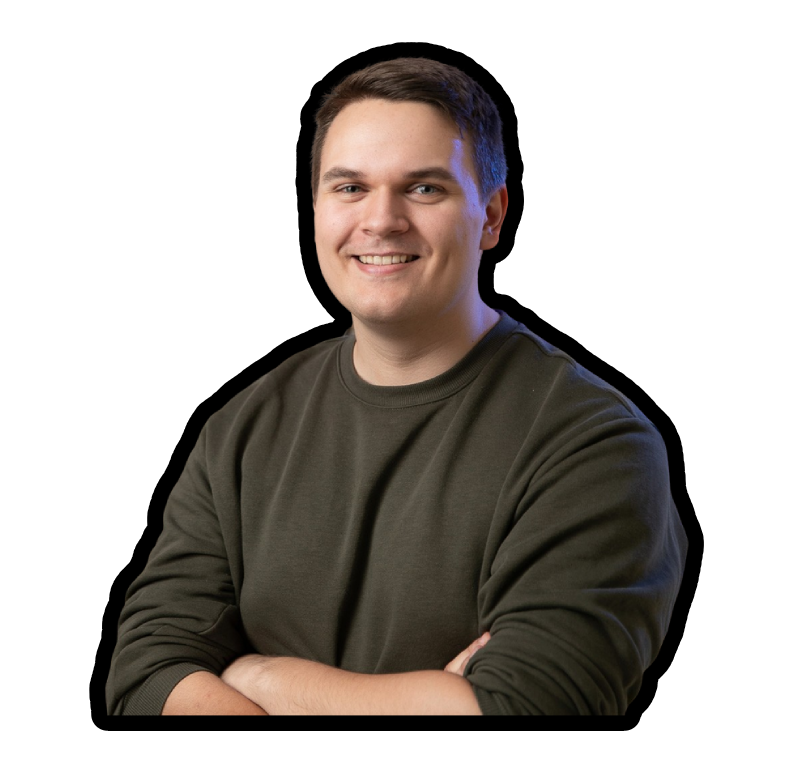
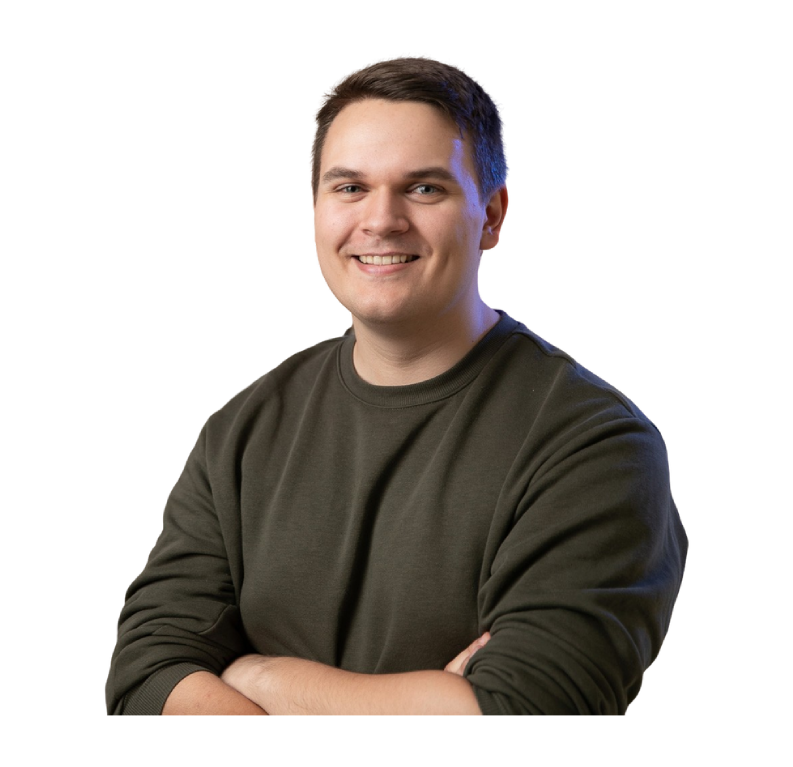
👌 IMPROVE: js->ts, and add dark mode

Changed region(s): [[0.0908, 0.03, 0.9079, 0.9596]]

diff --git a/pages/index.tsx b/pages/index.tsx
@@ -1,0 +1,100 @@
+import { ThemeProvider, useTheme } from "next-themes";
+
+import Head from "next/head";
+import Image from "next/image";
+import styles from "../styles/Home.module.scss";
+import profilePicture from "../images/profile.png";
+import Sparkles from "./sprakles";
+import Features from "../components/Features";
+import ThemeChanger from "../components/ThemeChanger";
+import useDarkMode from "use-dark-mode";
+
+export default function Home() {
+  return (
+    <ThemeProvider>
+      <div className={styles.darkModeToggle}>
+        <ThemeChanger></ThemeChanger>
+      </div>
+
+      <div className={styles.container}>
+        <Head>
+          <title>Sander Breivik | Full-stack developer</title>
+          <meta
+            name="description"
+            content="Sander Breiviks personal full-stack profile"
+          />
+          <link rel="icon" href="/favicon.ico" />
+        </Head>
+
+        <main className={styles.main}>
+          <div className={styles.title}>
+            <Image
+              priority
+              src={profilePicture}
+              alt="Sander Breivik"
+              width={400}
+              height={400}
+              className={styles.profile}
+            />
+            <div className={styles.titleTexts}>
+              <h1>Sander Breivik</h1>
+              <h2>
+                <Features></Features>
+              </h2>
+            </div>
+          </div>
+          <></>
+          <div className={styles.description}>
+            I am a full-stack developer with a passion for creating{" "}
+            <span className={styles.inline}>
+              <Sparkles> beautiful* </Sparkles>
+            </span>{" "}
+            user experiences.
+          </div>
+          <p className={styles.asterisk}>
+            * I know this is not much, but I promise I will add more in the
+            future!
+          </p>
+          <div className={styles.grid}>
+            <a
+              href="
+            https://www.linkedin.com/in/sanderbreivik"
+              className={styles.card}
+            >
+              <h3>LinkedIn</h3>
+              <p>
+                <svg
+                  width="48"
+                  height="48"
+                  viewBox="0 0 24 24"
+                  className={styles.svg}
+                  xmlns="http://www.w3.org/2000/svg"
+                >
+                  <path d="M19 0h-14c-2.761 0-5 2.239-5 5v14c0 2.761 2.239 5 5 5h14c2.762 0 5-2.239 5-5v-14c0-2.761-2.238-5-5-5zm-11 19h-3v-11h3v11zm-1.5-12.268c-.966 0-1.75-.79-1.75-1.764s.784-1.764 1.75-1.764 1.75.79 1.75 1.764-.783 1.764-1.75 1.764zm13.5 12.268h-3v-5.604c0-3.368-4-3.113-4 0v5.604h-3v-11h3v1.765c1.396-2.586 7-2.777 7 2.476v6.759z" />
+                </svg>
+              </p>
+            </a>
+            <a
+              href="
+            https://www.facebook.com/sander.breivik"
+              className={styles.card}
+            >
+              <h3>Facebook</h3>
+              <p>
+                <svg
+                  xmlns="http://www.w3.org/2000/svg"
+                  width="48"
+                  height="48"
+                  viewBox="0 0 24 24"
+                  className={styles.svg}
+                >
+                  <path d="M19 0h-14c-2.761 0-5 2.239-5 5v14c0 2.761 2.239 5 5 5h14c2.762 0 5-2.239 5-5v-14c0-2.761-2.238-5-5-5zm-3 7h-1.924c-.615 0-1.076.252-1.076.889v1.111h3l-.238 3h-2.762v8h-3v-8h-2v-3h2v-1.923c0-2.022 1.064-3.077 3.461-3.077h2.539v3z" />
+                </svg>
+              </p>
+            </a>
+          </div>
+        </main>
+      </div>
+    </ThemeProvider>
+  );
+}

diff --git a/components/styles/ThemeChanger.module.scss b/components/styles/ThemeChanger.module.scss
@@ -1,0 +1,62 @@
+.darkModeToggle {
+  display: flex;
+  margin: 0 auto;
+  & > button {
+    font-size: 1.2em;
+    background: none;
+    border: none;
+    color: #ffe600;
+    cursor: pointer;
+    transition: color 0.3s ease;
+    &:last-child {
+      color: #666;
+    }
+
+    &:focus {
+      outline: none;
+    }
+  }
+}
+
+.toggleControl {
+  position: relative;
+  padding: 0 4px;
+  display: flex;
+  align-items: center;
+}
+
+input[type="checkbox"].dmcheck {
+  width: 40px;
+  height: 10px;
+  background: #555;
+  position: relative;
+  border-radius: 5px;
+  -webkit-appearance: none;
+  -moz-appearance: none;
+  appearance: none;
+  cursor: pointer;
+  vertical-align: 2px;
+  outline: none;
+
+  &:checked + label {
+    left: 30px;
+  }
+
+  &:focus-visible {
+    outline: solid 2px white;
+  }
+
+  & + label {
+    display: inline-block;
+    width: 18px;
+    height: 18px;
+    border-radius: 50%;
+    transition: all 0.3s ease;
+    cursor: pointer;
+    position: absolute;
+    left: 2px;
+    background: #fff;
+    opacity: 0.9;
+    background-color: #f6f6f6;
+  }
+}

diff --git a/components/ThemeChanger.tsx b/components/ThemeChanger.tsx
@@ -1,0 +1,25 @@
+import Toggle from "./Toggle";
+import styles from "./styles/ThemeChanger.module.scss";
+import { useTheme } from "next-themes";
+const ThemeChanger = () => {
+  const { theme, setTheme } = useTheme();
+  const checked = theme === "dark";
+
+  const onChange = () => {
+    setTheme(checked ? "light" : "dark");
+  };
+
+  return (
+    <div className={styles.darkModeToggle}>
+      <button type="button" onClick={() => setTheme("light")}>
+        ☀
+      </button>
+      <Toggle checked={checked} onChange={onChange} />
+      <button type="button" onClick={() => setTheme("dark")}>
+        ☾
+      </button>
+    </div>
+  );
+};
+
+export default ThemeChanger;

diff --git a/styles/Home.module.scss b/styles/Home.module.scss
@@ -32,6 +32,8 @@
     justify-content: center;
     align-items: center;
     flex-grow: 1;
+    filter: drop-shadow(5px 0 0 black) drop-shadow(0 5px 0 black)
+      drop-shadow(-5px 0 0 black) drop-shadow(0 -5px 0 black);
   }
   .titleTexts {
     display: flex;
@@ -156,4 +158,22 @@
 .inline {
   position: relative;
   display: inline-block;
+}
+[data-theme="dark"] {
+  .profile {
+    filter: drop-shadow(5px 0 0 white) drop-shadow(0 5px 0 white)
+      drop-shadow(-5px 0 0 white) drop-shadow(0 -5px 0 white);
+  }
+  .features {
+    color: #fff;
+  }
+  .svg {
+    fill: #fff;
+  }
+}
+
+.darkModeToggle {
+  display: inline;
+  float: right;
+  margin: 1rem;
 }

diff --git a/components/Features.tsx b/components/Features.tsx
@@ -1,6 +1,6 @@
 import React from "react";
 import TextTransition from "react-text-transition";
-
+import styles from "./styles/Features.module.scss";
 const TEXTS = [
   "Full-stack developer",
   "Father",
@@ -21,7 +21,12 @@ const Features = () => {
     return () => clearTimeout(intervalId);
   }, []);
 
-  return <TextTransition text={TEXTS[index % TEXTS.length]} />;
+  return (
+    <TextTransition
+      className={styles.features}
+      text={TEXTS[index % TEXTS.length]}
+    />
+  );
 };
 
 export default Features;

diff --git a/pages/sprakles.tsx b/pages/sprakles.tsx
@@ -90,7 +90,7 @@ const useRandomInterval = (callback, minDelay, maxDelay) => {
 };
 const Sparkles = ({ color = DEFAULT_COLOR, children, ...delegated }) => {
   const [sparkles, setSparkles] = React.useState(() => {
-    return range(3).map(() => generateSparkle(color));
+    return range(3, 5).map(() => generateSparkle(color));
   });
   const prefersReducedMotion = usePrefersReducedMotion();
   useRandomInterval(

diff --git a/components/Toggle.tsx b/components/Toggle.tsx
@@ -1,0 +1,17 @@
+import React from "react";
+import styles from "./styles/ThemeChanger.module.scss";
+
+const Toggle = ({ checked, onChange }) => (
+  <span className={styles.toggleControl}>
+    <input
+      className={styles.dmcheck}
+      type="checkbox"
+      checked={checked}
+      onChange={onChange}
+      id="dmcheck"
+    />
+    <label htmlFor="dmcheck" />
+  </span>
+);
+
+export default Toggle;

diff --git a/components/styles/Features.module.scss b/components/styles/Features.module.scss
@@ -1,0 +1,7 @@
+.features {
+  color: rgba(0, 0, 0, 0.5);
+}
+
+[data-theme="dark"] .features {
+  color: rgba(255, 255, 255, 0.5);
+}
